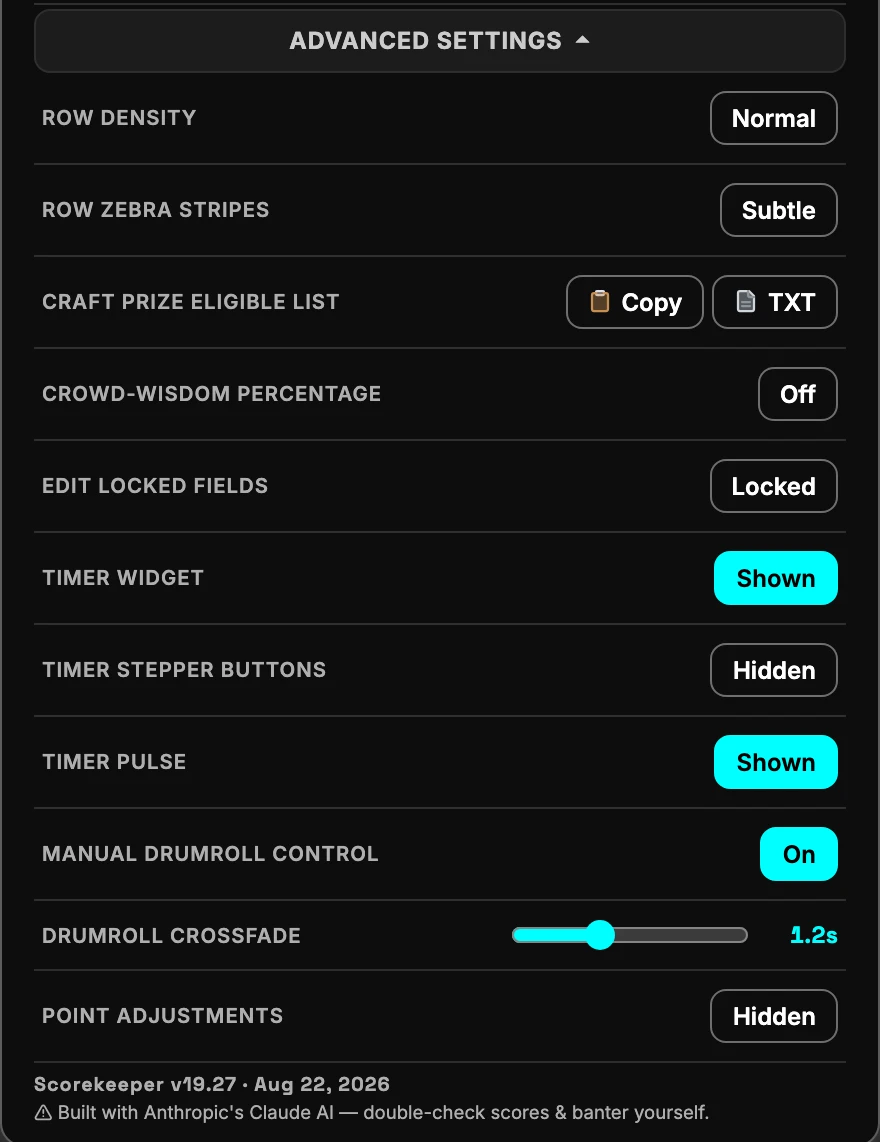
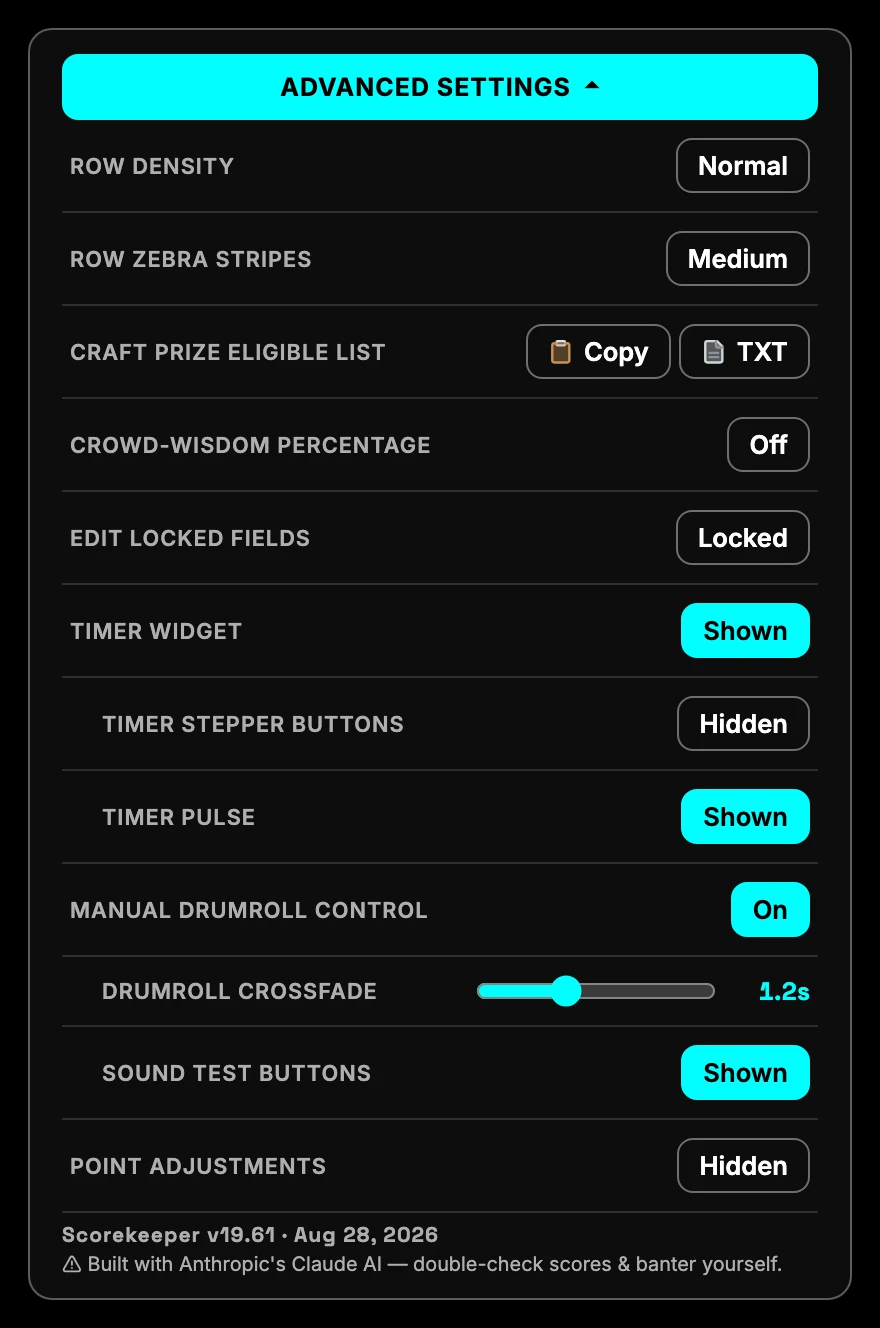
v19.61 Give the Advanced Settings toggle an off (bg-card) vs enabled (cyan) background, widen the mobile gap between each question's Sort and Reset buttons, fill the drum pictograph like its emoji (solid red shell, cream head, three tension rods) everywhere it renders, restore the Crash pictograph's

Changed region(s): [[0.0307, 0.0, 1.0, 1.0], [0.0, 0.9807, 0.0307, 1.0]]

diff --git a/css/styles.css b/css/styles.css
@@ -460,8 +460,12 @@ button,[role="button"]{touch-action:manipulation}
 /* ADVANCED SETTINGS — collapsible group holding the rarer controls (point adjustments,
    legacy CSV/XLSM export) so the default settings list stays short. */
 .settings-advanced-toggle-row{grid-column:1/-1;margin-top:2px}
-.settings-advanced-toggle{width:100%;display:flex;align-items:center;justify-content:center;gap:6px;font-family:var(--font-body);font-size:.78rem;font-weight:700;padding:8px 10px;border:1px solid var(--border);border-radius:var(--radius);background:var(--bg-input);color:var(--text-secondary);cursor:pointer;transition:var(--transition);text-transform:uppercase;letter-spacing:.5px}
+/* Off (collapsed) vs enabled (expanded) get distinct backgrounds so the state
+   reads at a glance, the same accent-fill convention the settings toggles use. */
+.settings-advanced-toggle{width:100%;display:flex;align-items:center;justify-content:center;gap:6px;font-family:var(--font-body);font-size:.78rem;font-weight:700;padding:8px 10px;border:1px solid var(--border-control);border-radius:var(--radius);background:var(--bg-card);color:var(--text-muted);cursor:pointer;transition:var(--transition);text-transform:uppercase;letter-spacing:.5px}
 .settings-advanced-toggle:hover{background:var(--bg-hover);color:var(--text-primary)}
+.settings-advanced-toggle.open{background:var(--accent-cyan-solid);color:var(--on-accent-cyan);border-color:var(--accent-cyan-solid)}
+.settings-advanced-toggle.open:hover{background:var(--accent-cyan-solid);color:var(--on-accent-cyan)}
 .settings-advanced-toggle .adv-chevron{transition:transform .25s;display:inline-block}
 .settings-advanced-toggle.open .adv-chevron{transform:rotate(180deg)}
 .settings-advanced-group{grid-column:1/-1;display:none;grid-template-columns:repeat(auto-fill,minmax(220px,1fr));column-gap:24px}
@@ -820,13 +824,17 @@ body.col-resizing *{cursor:col-resize!important;user-select:none!important}
    detail (it only has to separate from the burst it sits on, both themes). */
 .icon-snd-crash{--icon-tint:var(--tint-drum)}
 /* Solid (not the 38% .icon-tinted wash) and un-stroked so the eight points stay sharp — the
-   emoji is a saturated shape, not a faint one. Yellow core burst on top. */
+   emoji is a saturated shape, not a faint one. Yellow core star on top. The .ip-2 selector
+   carries .icon-tinted too so it outranks the generic `.icon-tinted [class^="ip-"]` interior
+   rule further down (equal specificity there, and that one wins on source order otherwise —
+   which is what was painting the core red instead of yellow). */
 .icon-snd-crash .snd-burst{fill:var(--icon-tint);stroke:none}
-.icon-snd-crash .ip-2{fill:var(--vivid-beer);stroke:none}
-/* Horn = 📢 loudspeaker, tinted silver. Body solid; the grip + sound-wave arcs are strokes. */
+.icon-snd-crash.icon-tinted .ip-2{fill:var(--vivid-beer);stroke:none}
+/* Horn = 📢 loudspeaker, tinted silver. Body solid; the grip + sound-wave arcs are strokes.
+   Same specificity bump as Crash above, for the same source-order reason. */
 .icon-snd-horn{--icon-tint:var(--tint-mic);--icon-tint-2:var(--tint-mic-2)}
 .icon-snd-horn .snd-body{fill:var(--icon-tint);stroke:none}
-.icon-snd-horn .ip-2{fill:none;stroke:var(--icon-tint-2)}
+.icon-snd-horn.icon-tinted .ip-2{fill:none;stroke:var(--icon-tint-2)}
 /* Settings > App Preferences (Save/Load) and > Craft Prize Eligible List (Copy/TXT) — the only
    four pictographs left with no colour of their own after every OTHER Settings row got one.
    --tint-cap reused for Save's floppy disk (this app's existing audited blue) and --tint-mic for
@@ -868,6 +876,14 @@ body.col-resizing *{cursor:col-resize!important;user-select:none!important}
    outline so the cream cap still reads on a white background instead of vanishing into it. Every
    place the pictograph renders — main app, FAQ, both themes — picks this up. */
 .icon-beer .ip-2{fill:var(--vivid-beer-2);stroke:var(--icon-tint)}
+/* Drum: the red shell fills solid (not the 38% .icon-tinted wash) so it reads as the 🥁 emoji's
+   body rather than a hollow outline; the drumhead borrows the beer cap's cream opt-out above; and
+   three tension rods lace down the shell (.ip-3 for colour, .dr-rod only trims the stroke weight
+   so they don't blob at button size). All three land on every drum instance — sound test, Start
+   Drumroll, FAQ. */
+.icon-drum .dr-shell{fill:currentColor;stroke:currentColor}
+.icon-drum .ip-2{fill:var(--vivid-beer-2);stroke:var(--icon-tint)}
+.icon-drum .dr-rod{fill:none;stroke-width:1.9}
 /* On a solid accent fill (Start Drumroll, Choose Craft Prize Winner) the tints above
    cannot be used as-is: --accent-cyan-solid runs from #00ffff to #00654c across the six
    theme x colour-vision combinations, so a value legible on one is invisible on another. Mixing
@@ -2336,7 +2352,7 @@ input.at-limit,textarea.at-limit{border-color:var(--accent-orange);box-shadow:0 
      badge and the Sort/Reset buttons reading as one control cluster at every FONT_SIZES step,
      down to the 12px floor. */
   .q-header,.sw-header{flex-wrap:wrap}
-  .q-header-right{flex-basis:100%;flex-wrap:wrap;row-gap:4px;justify-content:flex-end;margin-left:0;margin-top:2px}
+  .q-header-right{flex-basis:100%;flex-wrap:wrap;row-gap:4px;column-gap:10px;justify-content:flex-end;margin-left:0;margin-top:2px}
   .q-badge,.round-badge{font-size:.8rem}
   /* Sort/Reset drop their text label and shrink to icon-only squares here so the correct/
      incorrect stat pills (which carry the count+% the host actually needs) always have room

diff --git a/js/icons.js b/js/icons.js
@@ -114,21 +114,27 @@ const ICON_HEART_PICT =
   '<svg class="icon-ui icon-tinted icon-heart" viewBox="0 0 24 24" aria-hidden="true" focusable="false"><path d="M19 14c1.49-1.46 3-3.21 3-5.5A5.5 5.5 0 0 0 16.5 3c-1.76 0-3 .5-4.5 2-1.5-1.5-2.74-2-4.5-2A5.5 5.5 0 0 0 2 8.5c0 2.3 1.5 4.05 3 5.5l7 7Z"/></svg>';
 const ICON_BEER_PICT =
   '<svg class="icon-ui icon-tinted icon-beer" viewBox="0 0 24 24" aria-hidden="true" focusable="false"><path d="M5 8v12a2 2 0 0 0 2 2h8a2 2 0 0 0 2-2V8"/><path d="M17 9h1a3 5 0 0 1 0 10h-1"/><path d="M9 12v6"/><path d="M13 12v6"/><path class="ip-2" d="M14 7.5c-1 0-1.44.5-3 .5s-2-.5-3-.5-1.72.5-2.5.5a2.5 2.5 0 0 1 0-5c.78 0 1.57.5 2.5.5S9.44 3 11 3s2 .5 3 .5 1.72-.5 2.5-.5a2.5 2.5 0 0 1 0 5c-.78 0-1.5-.5-2.5-.5Z"/></svg>';
+// Red shell as a SOLID fill (not the 38% .icon-tinted wash) with a cream drumhead on top and
+// three full-height vertical tension rods laced down the shell — the 🥁 emoji's own red-body /
+// pale-top / laced-side look. The rods are drawn BEFORE the head so the cream oval covers their
+// tops and they only show on the shell side. .dr-shell / .dr-rod styled in styles.css; the head
+// reuses .icon-beer's cream-cap trick.
 const ICON_DRUM_PICT =
-  '<svg class="icon-ui icon-tinted icon-drum" viewBox="0 0 24 24" aria-hidden="true" focusable="false"><path d="M2 9v8a10 5 0 0 0 20 0V9"/><ellipse class="ip-2" cx="12" cy="9" rx="10" ry="5"/><path class="ip-3" d="m2 2 6 6"/><path class="ip-3" d="m22 2-6 6"/></svg>';
+  '<svg class="icon-ui icon-tinted icon-drum" viewBox="0 0 24 24" aria-hidden="true" focusable="false"><path class="dr-shell" d="M2 9v8a10 5 0 0 0 20 0V9"/><path class="ip-3 dr-rod" d="M6 9.4v8.1M12 9.8v8.8M18 9.4v8.1"/><ellipse class="ip-2" cx="12" cy="9" rx="10" ry="5"/><path class="ip-3" d="m2 2 6 6"/><path class="ip-3" d="m22 2-6 6"/></svg>';
 const ICON_TROPHY_PICT =
   '<svg class="icon-ui icon-tinted icon-trophy" viewBox="0 0 24 24" aria-hidden="true" focusable="false"><path d="M6 9H4.5a2.5 2.5 0 0 1 0-5H6"/><path d="M18 9h1.5a2.5 2.5 0 0 0 0-5H18"/><path class="ip-2" d="M4 22h16"/><path class="ip-2" d="M10 14.66V17c0 .55-.47.98-.97 1.21C7.85 18.75 7 20.24 7 22"/><path class="ip-2" d="M14 14.66V17c0 .55.47.98.97 1.21C16.15 18.75 17 20.24 17 22"/><path d="M18 2H6v7a6 6 0 0 0 12 0V2Z"/></svg>';
 // The Craft Prize "Test Sounds" bar's Crash / Horn buttons — drawn glyphs replacing the bare
 // 💥 / 🎺 emoji, shaped and tinted to echo them so they still read at a glance and follow the
 // app's theme + Icon Style. (Roll reuses ICON_DRUM, Fade reuses ICON_STOP — both already
 // drawn.) Emoji mode restores 💥 / 🎺.
-//   Crash 💥 → a solid, sharp eight-point jagged burst with a bright-yellow core burst on top,
-//              echoing the emoji's saturated orange-edge / yellow-centre look — --tint-drum
-//              red-orange + --vivid-beer yellow, both AA-audited both themes.
+//   Crash 💥 → a solid, sharp eight-point jagged burst with a bright-yellow eight-point core star
+//              sitting well inside it (r~7 of the 24 box, so the burst's red-orange points still
+//              show past it), echoing the emoji's saturated orange-edge / yellow-centre look —
+//              --tint-drum red-orange + --vivid-beer yellow, both AA-audited both themes.
 //   Horn  📢 → a loudspeaker/bullhorn: a small mouthpiece, a wide flaring cone, and two sound
 //              waves — tinted silver (--tint-mic, AA-audited both themes) to match 📢.
 const ICON_SND_CRASH_PICT =
-  '<svg class="icon-ui icon-tinted icon-snd-crash" viewBox="0 0 24 24" aria-hidden="true" focusable="false"><path class="snd-burst" d="M12 .5 14.96 10.78 20.1 3.9 14.96 13.22 23.5 12 13.22 14.96 20.1 20.1 10.78 14.96 12 23.5 9.04 13.22 3.9 20.1 9.04 10.78 .5 12 10.78 9.04 3.9 3.9 13.22 9.04Z"/><path class="ip-2" d="M12 3.5 14.7 12.2 19.4 5.9 14.5 12.9 21.5 12 14 14 19 18.5 12.9 14.7 12 20.5 10.5 14.5 6 18 8.9 12.9 4.5 12 9.5 11 6.5 6.5 10 10.2Z"/></svg>';
+  '<svg class="icon-ui icon-tinted icon-snd-crash" viewBox="0 0 24 24" aria-hidden="true" focusable="false"><path class="snd-burst" d="M12 .5 14.96 10.78 20.1 3.9 14.96 13.22 23.5 12 13.22 14.96 20.1 20.1 10.78 14.96 12 23.5 9.04 13.22 3.9 20.1 9.04 10.78 .5 12 10.78 9.04 3.9 3.9 13.22 9.04Z"/><path class="ip-2" d="M19 12 14.77 13.15 16.95 16.95 13.15 14.77 12 19 10.85 14.77 7.05 16.95 9.23 13.15 5 12 9.23 10.85 7.05 7.05 10.85 9.23 12 5 13.15 9.23 16.95 7.05 14.77 10.85Z"/></svg>';
 const ICON_SND_HORN_PICT =
   '<svg class="icon-ui icon-tinted icon-snd-horn" viewBox="0 0 24 24" aria-hidden="true" focusable="false"><path class="snd-body" d="M2 10h2v4H2z"/><path class="snd-body" d="M4 8 15 3.6v16.8L4 16z"/><path class="ip-2" d="M17.7 8.4a4.6 4.6 0 0 1 0 7.2"/><path class="ip-2" d="M20.2 6.2a8.4 8.4 0 0 1 0 11.6" opacity=".5"/></svg>';
 // Final Results' checkered flag. Deliberately NOT one of the tinted pictographs: a racing flag

diff --git a/faq/index.html b/faq/index.html
@@ -1817,7 +1817,7 @@
         <div class="faq-shot">
           <img
             loading="lazy"
-            width="880" height="1142" decoding="async"
+            width="880" height="1328" decoding="async"
             src="screenshots/advanced-settings.webp"
             data-shot-base="advanced-settings"
             alt="Advanced Settings expanded, showing Row Density, Row Zebra Stripes, Craft Prize Eligible List, Crowd-Wisdom Percentage, Edit Locked Fields, timer controls, Manual Drumroll Control, Drumroll Crossfade, Sound Test Buttons, and Point Adjustments"
@@ -1950,10 +1950,10 @@
                   width="836" height="1120" decoding="async"
                   src="screenshots/row-zebra-subtle.webp"
                   data-shot-base="row-zebra-subtle"
-                  alt="A Round 1 question with Row Zebra Stripes set to Subtle — the default, alternating rows barely tinted"
+                  alt="A Round 1 question with Row Zebra Stripes set to Subtle — alternating rows barely tinted"
                   onerror="faqShotFallback(this,'Row Zebra Stripes: Subtle — barely-there alternating tint')"
                 />
-                <div class="faq-shot-caption">Subtle (default)</div>
+                <div class="faq-shot-caption">Subtle</div>
               </div>
               <div class="faq-shot">
                 <img
@@ -1961,10 +1961,10 @@
                   width="836" height="1120" decoding="async"
                   src="screenshots/row-zebra-medium.webp"
                   data-shot-base="row-zebra-medium"
-                  alt="The same question with Row Zebra Stripes set to Medium — alternating rows clearly tinted"
+                  alt="The same question with Row Zebra Stripes set to Medium — the default, alternating rows clearly tinted"
                   onerror="faqShotFallback(this,'Row Zebra Stripes: Medium — clearly visible alternating tint')"
                 />
-                <div class="faq-shot-caption">Medium</div>
+                <div class="faq-shot-caption">Medium (default)</div>
               </div>
               <div class="faq-shot">
                 <img
@@ -2160,7 +2160,7 @@
             <div class="faq-shot">
               <img
                 loading="lazy"
-                width="1000" height="360" decoding="async"
+                width="976" height="277" decoding="async"
                 src="screenshots/sound-test-buttons.webp"
                 data-shot-base="sound-test-buttons"
                 alt="The Test Sounds bar with square Roll, Fade, Crash, and Horn buttons"

diff --git a/js/app.js b/js/app.js
@@ -30,8 +30,8 @@ const FIELD_MAX = {
   teamName: 40,
   craftScript: 600,
 };
-const APP_VERSION = "v19.60"; // #Version Number — bump this manually when you release a new build
-const APP_VERSION_DATE = "Aug 27, 2026"; // #Version Date — bump alongside APP_VERSION so folks can spot a stale build
+const APP_VERSION = "v19.61"; // #Version Number — bump this manually when you release a new build
+const APP_VERSION_DATE = "Aug 28, 2026"; // #Version Date — bump alongside APP_VERSION so folks can spot a stale build
 // version.json (repo root) mirrors these two — see checkForUpdate() below for why, and bump it
 // in the same commit as these two or the update-available check starts lying: it'd either miss
 // a real new release (version.json still saying the old version) or nag a host running the

diff --git a/faq/js/faq.js b/faq/js/faq.js
@@ -4,8 +4,8 @@
 // #versionLabel element. Here the same string feeds two spots — the page footer and the
 // Settings panel's settings-meta row — so bumping a release only means editing these two
 // constants instead of hunting down every place the version text is written out by hand.
-const FAQ_VERSION = "v1.36";
-const FAQ_VERSION_DATE = "27 Aug 2026";
+const FAQ_VERSION = "v1.37";
+const FAQ_VERSION_DATE = "28 Aug 2026";
 
 // Same Lucide sun/moon geometry as the main app's THEME_ICON_SUN/MOON (js/app.js), tagged
 // data-emoji so Icon Style (see faqApplyIconStyle further down) can swap this page's Theme

diff --git a/CHANGELOG.md b/CHANGELOG.md
@@ -10,6 +10,13 @@ rewritten) are renumbered here as v19.0 through v19.27, so the FAQ's move from
 its own separate site into this app lands on v19.0 instead of sitting mid-run
 as an arbitrary v18.74.
 
+## v19.61 - 2026-08-28
+- **The Advanced Settings toggle now shows its state.** Collapsed it takes a plain `--bg-card` / muted-text "off" look; expanded it takes the same `--accent-cyan-solid` fill the rest of the settings toggles use when active, so open-vs-closed reads at a glance instead of only from the chevron.
+- **More gap between each question's Sort and Reset buttons on mobile.** The `.q-header-right` cluster gets a 10px `column-gap` at phone widths (was the shared 4px), so the two icon-only squares aren't crowded under a thumb.
+- **Drum pictograph filled in to match the emoji.** The shell is now a solid red fill (not a 38% wash that read as a hollow outline), the drumhead takes the beer cap's solid cream treatment, and three vertical tension rods lace down the shell. Lands on every drum instance — the Craft Prize "Roll" sound-test button, Start Drumroll, and the FAQ.
+- **Crash pictograph gets its yellow core back.** The `.icon-snd-crash .ip-2` rule was losing to the generic `.icon-tinted [class^="ip-"]` interior rule on source order, so the core painted red like the burst; it's now specificity-bumped (and redrawn as a smaller inset eight-point star) so the bright `--vivid-beer` centre shows through, echoing 💥. Same fix applied to the Horn pictograph's arcs.
+- **FAQ**: Row Zebra Stripes tip now marks Medium as the default; new Dark/Light `advanced-settings` and `sound-test-buttons` screenshots. FAQ bumped to v1.37.
+
 ## v19.60 - 2026-08-27
 - **Redraws the Guy Fawkes mask (JD Upload Form).** The mustache and goatee are now solid fills with no outline of their own — stroking them at `.icon-ui`'s 2.25 width had closed the gap between them into one blob at button/mobile size — and the plate's outline is thinned to 1.4. The JD Upload Form control also becomes a square, icon-forward button like XLSX / PDF (the mask over a two-line "JD Upload / Form" label), instead of a wide link.
 - **Real pictographs for the Craft Prize "Test Sounds" buttons.** Roll reuses the drum, Fade reuses the stop square, Crash is a solid red-orange eight-point burst with a yellow core (💥), and Horn is a silver loudspeaker/megaphone (📢) — all theme-aware, all following Icon Style, all WCAG AA in Dark and Light (`--tint-drum` / `--vivid-beer` / `--tint-mic`). Emoji mode restores 🥁 / ⏹ / 💥 / 📢.

diff --git a/faq/screenshots/README.md b/faq/screenshots/README.md
@@ -57,7 +57,7 @@ comparison it exists to make.
 | `sound-test-buttons.webp` | The Craft Prize Drawing's Test Sounds bar — the square Roll / Fade / Crash / Horn buttons (Advanced Settings → Manual Drumroll Control **and** Sound Test Buttons both on). | Tips & Tricks |
 | `settings-panel.webp` | The main Settings panel open (⚙ gear icon) — Theme, Size, Icon Style, Question Timer, Sample Data (🧪 Try Example and ℹ Take the Tour), Help, App Preferences, and the collapsed Advanced Settings toggle. | Getting Started |
 | `tutorial-spotlight.webp` | Mid-tour: the dimmed spotlight overlay around a highlighted control, with the callout box (step text, "Step X of Y", Back/Next, Skip Tutorial) visible. | Interactive Tutorial |
-| `advanced-settings.webp` | Advanced Settings expanded — Row Density, Row Zebra Stripes, Craft Prize Eligible List, Crowd-Wisdom Percentage, Edit Locked Fields, timer controls, Manual Drumroll Control (on, so Drumroll Crossfade shows too), and Point Adjustments. | Tips & Tricks |
+| `advanced-settings.webp` | Advanced Settings expanded (the toggle takes its enabled cyan fill) — Row Density, Row Zebra Stripes, Craft Prize Eligible List, Crowd-Wisdom Percentage, Edit Locked Fields, timer controls, Manual Drumroll Control (on, so Drumroll Crossfade and Sound Test Buttons both show too), and Point Adjustments. | Tips & Tricks |
 | `manual-drumroll-control.webp` | The Craft Prize drawing with Manual Drumroll Control's Stop Drumroll / Play Victory Horn buttons visible (Advanced Settings → Manual Drumroll Control must be on). | Tips & Tricks |
 | `resume-banner.webp` | The "⚠ Saved session found" banner with its Resume / New Game buttons (reload the page mid-session to see it). | Autosave & Resume |
 | `save-load-toolbar.webp` | The top toolbar — 💾 Save and 📂 Load buttons next to the ⚙ Settings gear. | Manual Save & Load |

diff --git a/faq/CHANGELOG.md b/faq/CHANGELOG.md
@@ -2,6 +2,17 @@
 
 All notable changes to the Scorekeeper FAQ site are documented here.
 
+## [1.37] - 28 Aug 2026
+
+### Changed
+
+- **Row Zebra Stripes**: the tip now marks **Medium** as the default (was Subtle) — the app's
+  default changed in v19.59.
+- **Advanced Settings** screenshots (Dark/Light) regenerated: the expanded toggle now takes its
+  enabled cyan fill, Row Zebra Stripes reads Medium, and the Sound Test Buttons row is included.
+- **Sound Test Buttons** screenshots (Dark/Light) regenerated for the filled drum pictograph
+  (solid red shell, cream head, tension rods) and the Crash burst's new yellow core.
+
 ## [1.36] - 27 Aug 2026
 
 ### Changed
